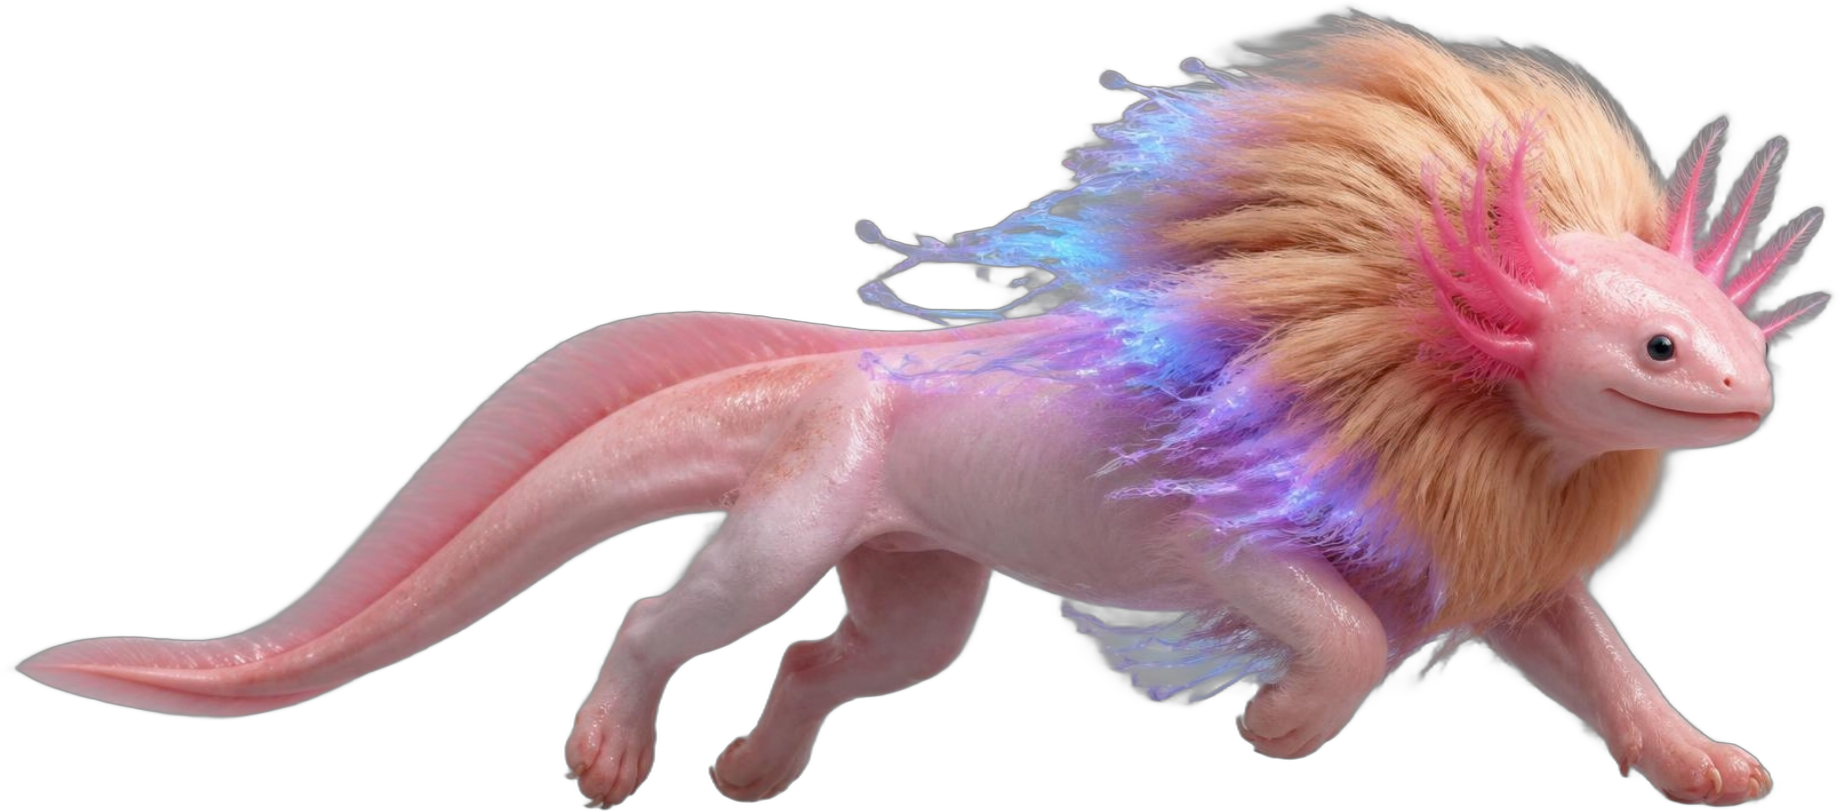
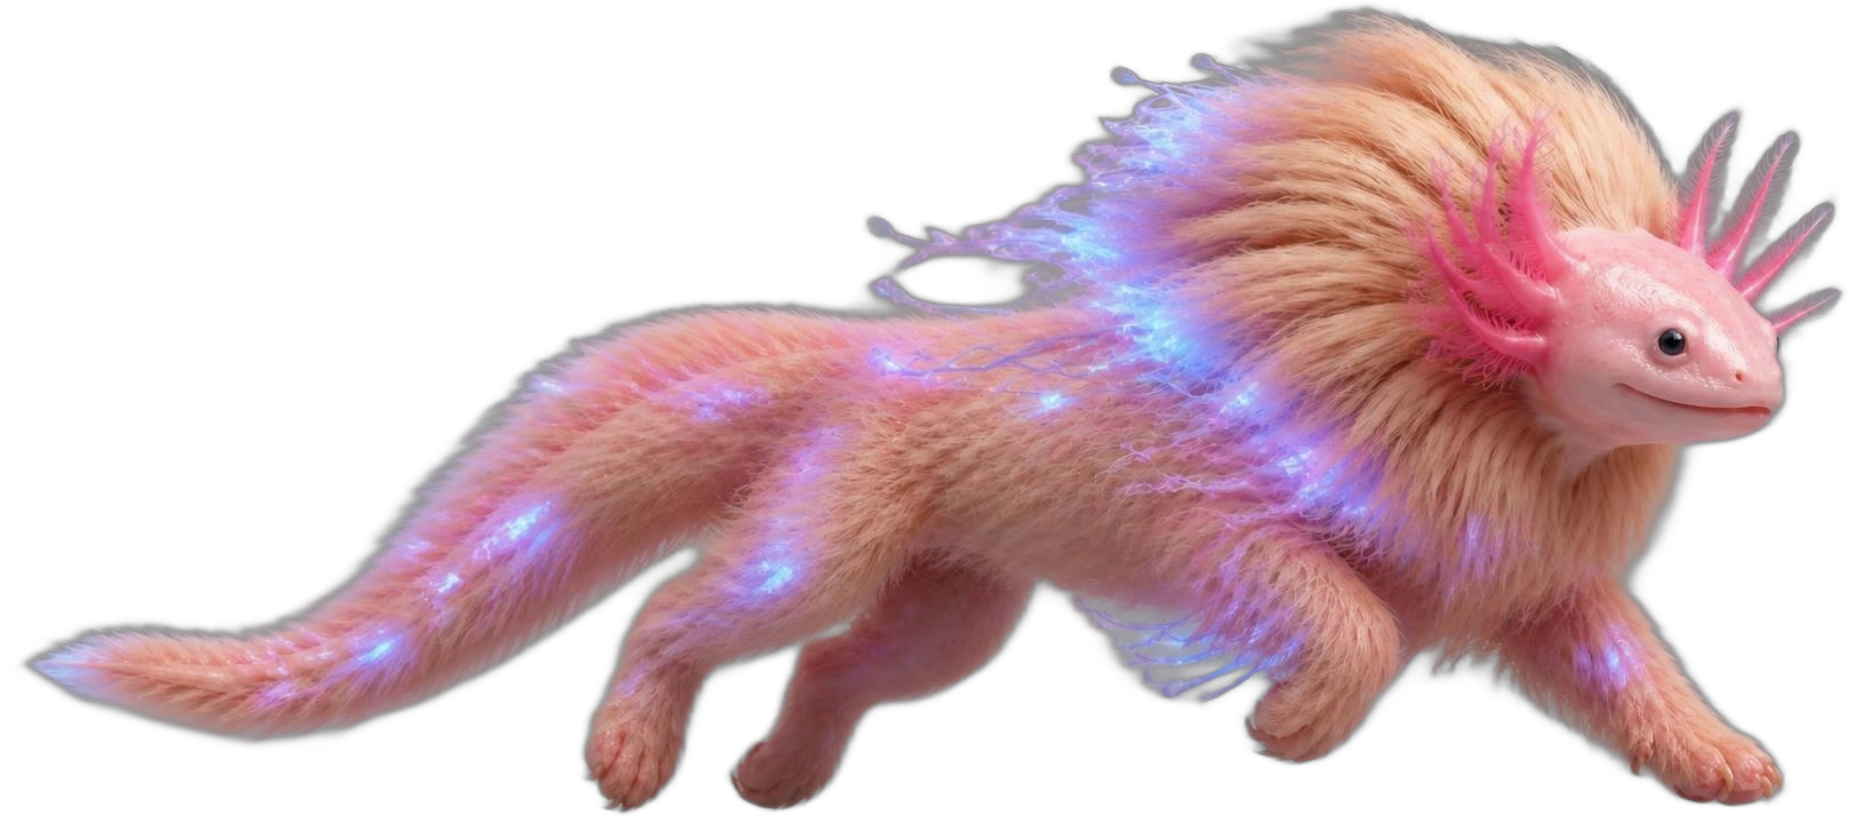
Axolotlion video: glowing lion-fur body (new standing and running images)
Claude-Session: https://claude.ai/code/session_01FDppRVSShDzSES6wpqnZN1

Changed region(s): [[0.0, 0.0, 1.0, 1.0]]

diff --git a/video/src/axolotlion/AxolotlionVideo.tsx b/video/src/axolotlion/AxolotlionVideo.tsx
@@ -10,7 +10,7 @@ const ease = (f: number, a: number, b: number, from = 0, to = 1, e = Easing.out(
   interpolate(f, [a, b], [from, to], {...clamp, easing: e});
 const win = (f: number, a: number, b: number, fade = 12) => interpolate(f, [a, a + fade, b - fade, b], [0, 1, 1, 0], clamp);
 
-const RUN_W = 1840, RUN_H = 812, ST_W = 1751, ST_H = 1022;
+const RUN_W = 1851, RUN_H = 818, ST_W = 1406, ST_H = 976;
 const GLOW = 'drop-shadow(0 0 26px rgba(255,120,225,.55)) drop-shadow(0 0 70px rgba(90,200,255,.38))';
 
 /* ---------- gallop pose: bounce, pitch, squash ---------- */
@@ -261,13 +261,13 @@ export const AxolotlionVideo: React.FC = () => {
 
       {/* S2 */}
       <AbsoluteFill style={{opacity: s2}}>
-        <Stander x={560} ground={930} scale={0.6} pulse={ease(f, 300, 320, 0, 1) * (1 - ease(f, 322, 340, 0, 1))} mane={ease(f, 252, 262, 0, 1) * (1 - ease(f, 264, 276, 0, 1))} opacity={ease(f, 150, 180, 0, 1)} />
-        <Line from={[785, 452]} to={[1090, 215]} at={178} color="#ff9ae0" />
-        <Line from={[665, 354]} to={[1090, 425]} at={252} color="#ffd166" />
-        <Line from={[780, 685]} to={[1090, 635]} at={305} color="#6ff2ff" />
-        <Ring x={785} y={452} at={180} color="#ff9ae0" />
-        <Ring x={665} y={354} at={252} color="#ffd166" />
-        <Ring x={780} y={685} at={305} color="#6ff2ff" />
+        <Stander x={520} ground={930} scale={0.7} pulse={ease(f, 300, 320, 0, 1) * (1 - ease(f, 322, 340, 0, 1))} mane={ease(f, 252, 262, 0, 1) * (1 - ease(f, 264, 276, 0, 1))} opacity={ease(f, 150, 180, 0, 1)} />
+        <Line from={[894, 404]} to={[1090, 215]} at={178} color="#ff9ae0" />
+        <Line from={[727, 267]} to={[1090, 425]} at={252} color="#ffd166" />
+        <Line from={[933, 677]} to={[1090, 635]} at={305} color="#6ff2ff" />
+        <Ring x={894} y={404} at={180} color="#ff9ae0" />
+        <Ring x={727} y={267} at={252} color="#ffd166" />
+        <Ring x={933} y={677} at={305} color="#6ff2ff" />
         <InfoCard at={178} y={125} accent="#ff9ae0" kicker="The axolotl" text="A salamander famous for regrowing lost limbs." />
         <InfoCard at={252} y={335} accent="#ffd166" kicker="The lion" text="The mane of a leader. Main-character energy." />
         <InfoCard at={305} y={545} accent="#6ff2ff" kicker="The jellyfish glow" text="A bioluminescent shine that stands out in the dark." />
@@ -314,7 +314,7 @@ export const AxolotlionVideo: React.FC = () => {
 
       {/* S5 */}
       <AbsoluteFill style={{opacity: s5}}>
-        <Stander x={560} ground={945} scale={0.62} pulse={0.35 + Math.sin(f / 10) * 0.2} />
+        <Stander x={500} ground={945} scale={0.58} pulse={0.35 + Math.sin(f / 10) * 0.2} />
         <div style={{position: 'absolute', right: 110, top: 190, width: 900}}>
           <Words text="Axolotlion" size={170} delay={782} gradient />
           <div style={{height: 24}} />
